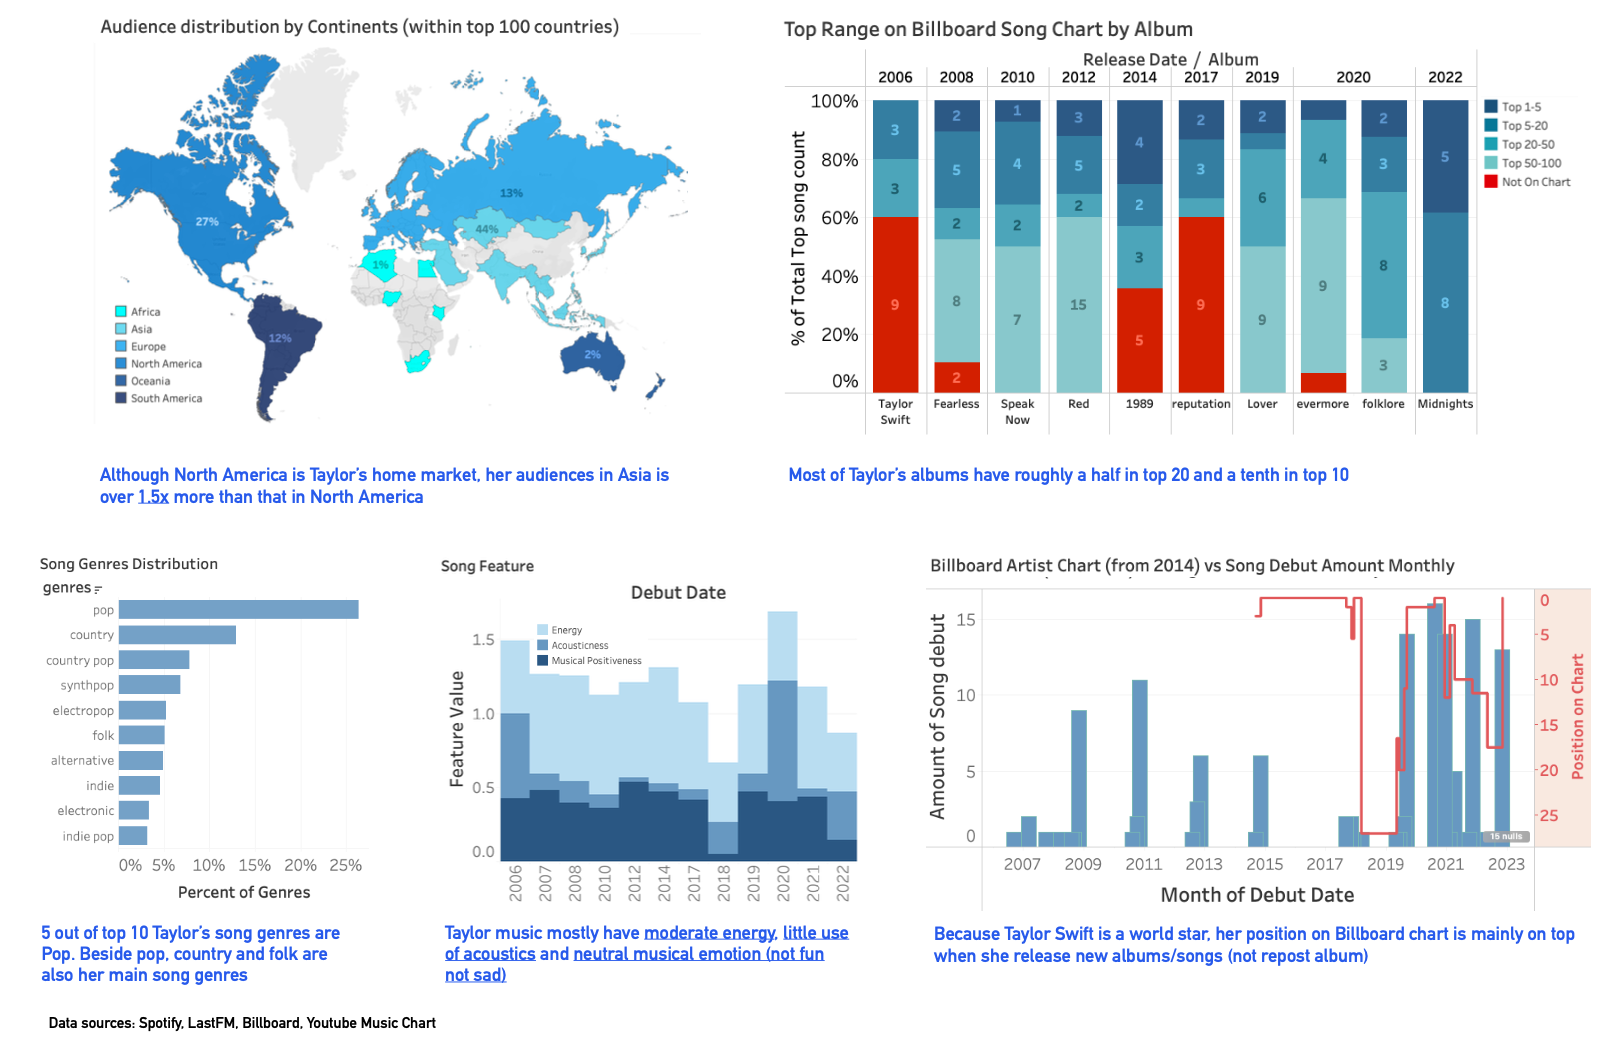
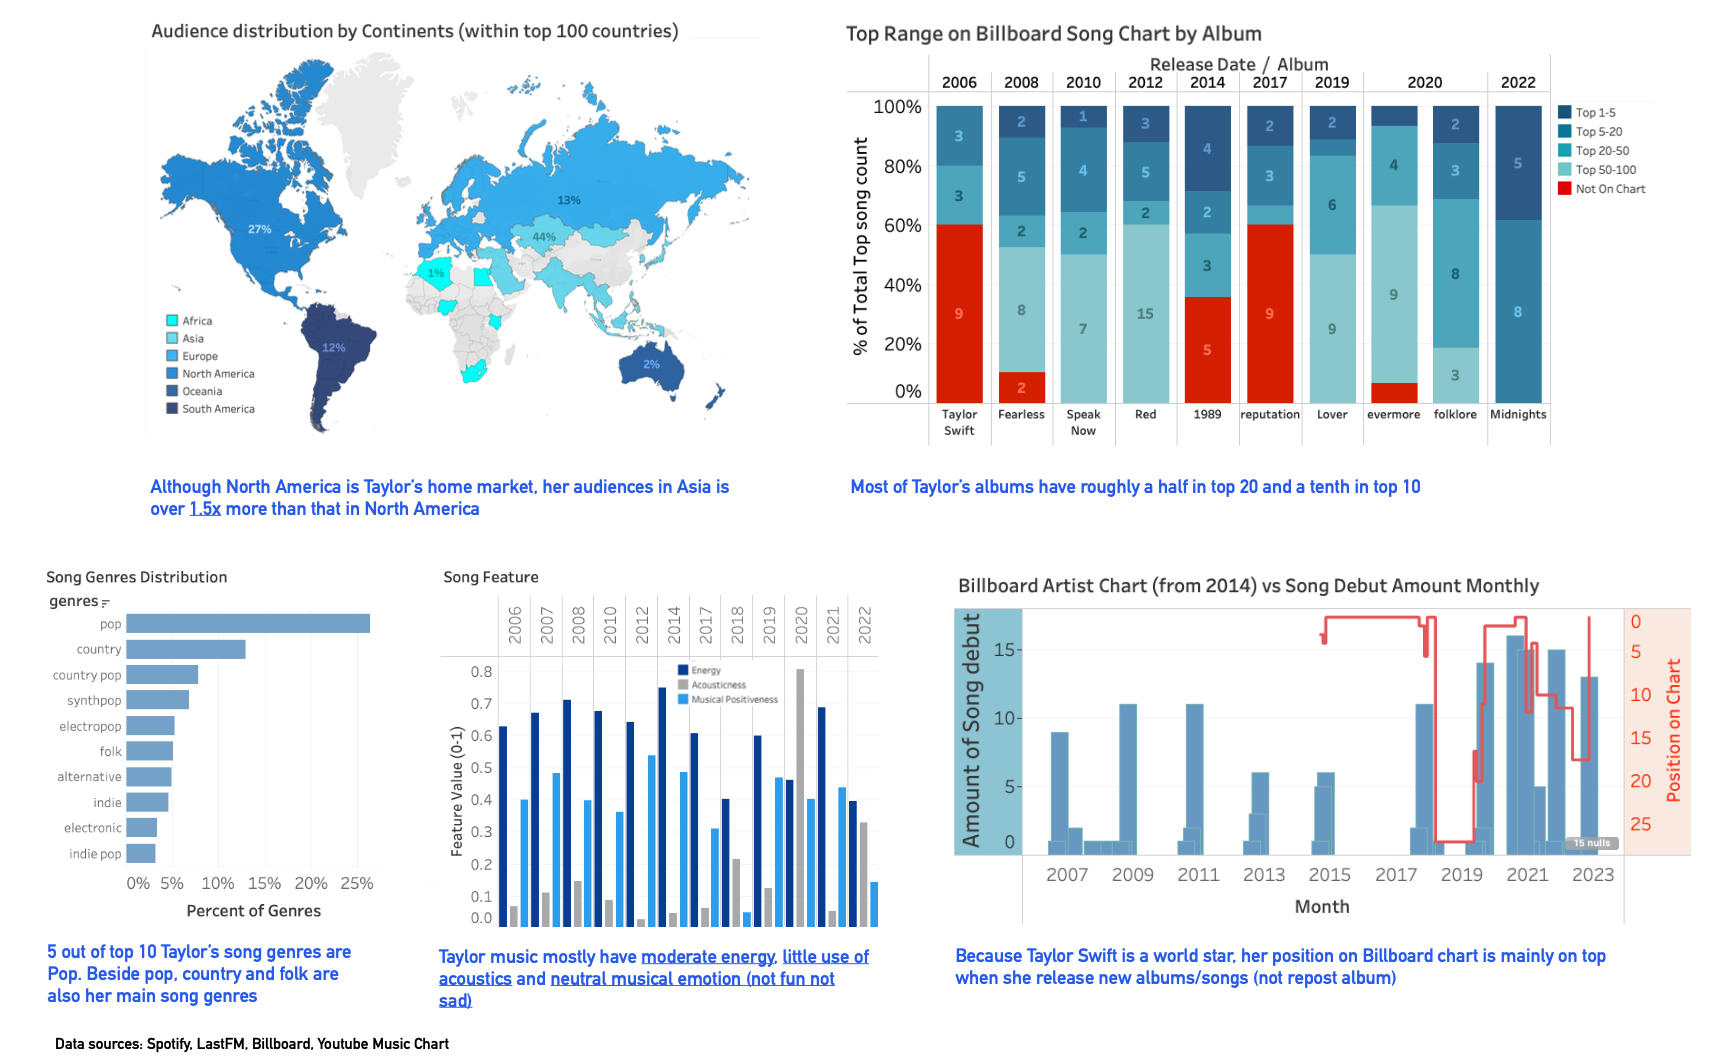
update-commit

diff --git a/README.MD b/README.MD
@@ -1,18 +1,31 @@
 # Taylor Swift Song & Market Analysis
 ## Project Summary
 
-### Goal of Project 
-- This project based on the data I extracted from previous project - Song Analysis, where I analyse only Taylor Swift song and its popularity currently, to give a more general and insightful on her song and market by data enrichment
-- This project also provide interactive dashboard about Taylor Swift song and market. 
+### Project Motivation
+- I am a new audience of Taylor Swift music, I find that she is really famous in music industry for a decade. because of curiosity, I decide to collect and analyse data to understand how she famous and what her music style actually is based on time series.
 
-The project follow steps:
-- Step 1: Data enrichment
+### Planning
+#### How I decide what data to collect:
+- I collect data based on hierarchical order: How Taylor Swift in the world -> music market -> her album -> her song > her song feature/genres
+
+#### Pre-analysis questions and hypothesis
+- Before analyse, I determine some of question or hypothesis about Taylor Swift:
+    - She is a big music star around the world, so how her audience distribute around the world?
+    - I assume that her position in Billboard chart should be affected by her new release, it means each time she release new tracks/album, she will be on top of the chart.
+    - She is considered as pop star, her music is all pop or having another kind of music?
+    - Because she is a big star in the industry, her tracks should mostly be on the Billboard chart, some of them are on top
+    - What is her music style? (I will use song feature that describe 3 main aspects in her music: Energy, Acousticness, Musical positiveness)
+- At the end of this project, all questions and hypothesis will be answer by data plotted on Tableau.
+
+
+## The project follow steps:
+- Step 1: collect and clean data
 - Step 2: Create Tableau interactive dashboard and static report
 
 ## Step 1: Data enrichment
 There are some type of data sources I use in this project to enrich my data
 #### Main dataset:
-- Data collect method: https://github.com/hoangr1010/Song-Analysis
+- Data collect method: Read Step 1 and Step 2 in Readme.md https://github.com/hoangr1010/Song-Analysis
 - This data set includes: song, album, album release date, song feature, popularity, song genres
 - Sources: Spotify, LastFM
 
@@ -21,12 +34,12 @@ There are some type of data sources I use in this project to enrich my data
 - This data set includes: Country_name, views amount for last 12 months
 - Sources: Youtube Music Chart
 
-#### Taylor Swift on Artist 100 (Billboard chart for artist)
+#### Taylor Swift on Artist 100 (Billboard chart for artist):
 - Data collect method: use Billboard API to request data
 - This data set includes: Week, Taylor position on chart
 - Source: Billboard chart - Artist 100
 
-#### Taylor's song on Hot 100 (Billboard chart for song)
+#### Taylor's song on Hot 100 (Billboard chart for song):
 - Data collect method: use BeautifulSoup to scrape the data
 - This data set includes: song name,debut date,peak position,peak date,weeks on Chart
 - Source: Billboard chart - Hot 100
@@ -34,5 +47,5 @@ There are some type of data sources I use in this project to enrich my data
 ###### Note: all dataset I used for this project placed on dataset folder. song_df_join_hot_100 is dataset I left join between song_df and hot_100_df
 
 ## Step 2: Create Tableau interactive dashboard and static report
-- Link Dashboard: https://public.tableau.com/app/profile/nguyen.huu.huy.hoang/viz/TaylorSwiftMarketandSongAnalysis/MainDashboard?publish=yes
-- I also create general report, it's included on png file
+- At the end, I create a report to answer all question at outset. I store it in png file above.
+- You also can explore more insight about Taylor Swift market and song through this interactive dashboard: https://public.tableau.com/app/profile/nguyen.huu.huy.hoang/viz/TaylorSwiftMarketandSongAnalysis/MainDashboard?publish=yes
